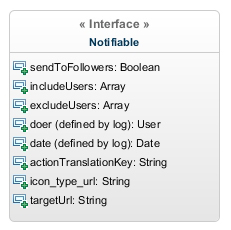
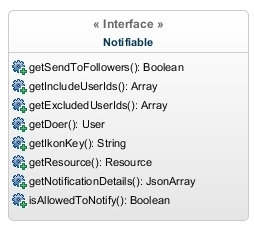
Changed notification rendering

Changed region(s): [[0.0303, 0.0307, 1.0, 0.9825], [0.3636, 0.1535, 0.6061, 0.2149], [0.3333, 0.0614, 0.6667, 0.1228]]

diff --git a/Resources/public/css/dropdown.css b/Resources/public/css/dropdown.css
@@ -1,7 +1,8 @@
-#top_bar div.notifications-dropdown-list {margin: 0; padding: 0; left: -196px; right: auto; min-width: 340px;}
+#top_bar div.notifications-dropdown-list {margin: 0; padding: 0; }
 .notifications-dropdown-list .list-group { border-radius: 0; margin-bottom: 0; border-top: 1px solid #ddd;}
 .notifications-dropdown-list li.list-group-item {border-radius: 0;border: 0;border-bottom: 1px solid #ddd; margin-bottom: 0px; font-size:12px; padding: 2px;}
 .notifications-dropdown-list li.list-group-item a,  .notifications-dropdown-list li.list-group-item a:hover{color: #428BCA !important; padding-left: 0px !important; }
+
 .notifications-dropdown-list .notification-widget-date { color: #999999; font-size: 85%; }
 .notifications-dropdown-list .not-viewed-notification, .notification-widget li.list-group-item:hover { background-color: rgba(86,61,124,.15); }
 .notifications-dropdown-list div.see-notifications-button, .notification-widget li.see-notifications-button:hover { color: #fff; background-color: #428BCA; border-color: #428BCA; border-bottom-left-radius: 4px;
@@ -20,8 +21,13 @@
     right: 33%;
 }
 
-.notifications-dropdown-list .dropdown-notification-avatar {float: left; width: 11%; margin-right: 2%;}
+.notifications-dropdown-list .dropdown-notification-avatar {float: left; width: 11%; margin-right: 2%; max-width: 40px;}
 .notifications-dropdown-list .dropdown-notification-text {float: left; width: 85%;}
 .notifications-dropdown-list li.list-group-item span.notification-icon {width:16px; text-align: center; color: #fff; text-transform: uppercase; font-size: 11px; line-height: 16px; display: inline-block;}
 .notifications-dropdown-list li.list-group-item span.notification-icon.default-notification-icon {background-color: #dadedf; color: #686E72;}
 .notifications-dropdown-list div.zero-notifications-found {text-align: center; padding: 5px;}
+
+@media (min-width: 990px) {
+    #top_bar div.notifications-dropdown-list {left: -196px; right: auto; min-width: 340px;}
+    div.notifications-dropdown-list ul#notification-list {max-height: 170px; overflow: auto;}
+}

diff --git a/Service/Manager.php b/Service/Manager.php
@@ -109,7 +109,11 @@ class Manager
         $notification = new Notification();
         $notification->setActionKey($notifiable->getActionKey());
         $notification->setIconKey($notifiable->getIconKey());
-        $notification->setResourceId($notifiable->getResourceId());
+        $resourceId = null;
+        if ($notifiable->getResource() !== null) {
+            $resourceId = $notifiable->getResource()->getId();
+        }
+        $notification->setResourceId($resourceId);
         $details = $notifiable->getNotificationDetails();
         $doer = $notifiable->getDoer();
         $doerId = null;
@@ -147,10 +151,10 @@ class Manager
     public function notifyUsers (Notification $notification, NotifiableInterface $notifiable)
     {
         $userIds = array();
-        if ($notifiable->getSendToFollowers()) {
+        if ($notifiable->getSendToFollowers() && $notifiable->getResource() !== null) {
             $userIds = $this->getFollowersByResourceIdAndClass(
-                $notifiable->getResourceId(),
-                $notifiable->getResourceClass()
+                $notifiable->getResource()->getId(),
+                $notifiable->getResource()->getClass()
             );
         }
 
@@ -201,17 +205,6 @@ class Manager
         $this->notifyUsers($notification, $notifiable);
 
         return $notification;
-    }
-
-    /**
-     * Retrieves the notifications for a user
-     *
-     * @param $userId
-     * @return query
-     */
-    public function getUserNotificationsQuery($userId)
-    {
-        return $this->getNotificationViewerRepository()->findUserNotificationsQuery($userId);
     }
 
     /**
@@ -274,17 +267,6 @@ class Manager
 
     /**
      * @param $userId
-     * @param $max
-     *
-     * @return mixed
-     */
-    public function getUserLatestNotifications($userId, $max)
-    {
-        return $this->getNotificationViewerRepository()->findUserLatestNotifications($userId, $max);
-    }
-
-    /**
-     * @param $userId
      * @param $resourceId
      */
     public function getFollowerResource($userId, $resourceId, $resourceClass)
@@ -335,24 +317,6 @@ class Manager
         }
 
         return $followerResource;
-    }
-
-    /**
-     * @param $objectIds
-     * @param $objectClass
-     * @return array
-     */
-    public function getObjectsByClassAndIds ($objectIds, $objectClass)
-    {
-        $objectIds = array_unique($objectIds);
-        $objects = $this->getEntityManager()->getRepository($objectClass)->findBy(array('id'=>$objectIds));
-
-        $objectsHash = array();
-        foreach ($objects as $object) {
-            $objectsHash[$object->getId()] = $object;
-        }
-
-        return $objectsHash;
     }
 
     /**

diff --git a/DependencyInjection/IcapNotificationExtension.php b/DependencyInjection/IcapNotificationExtension.php
@@ -26,7 +26,7 @@ class IcapNotificationExtension extends Extension
         $configuration = new Configuration();
         $config = $this->processConfiguration($configuration, $configs);
 
-        foreach (array('user_class', 'resource_class', 'default_layout', 'max_per_page', 'dropdown_items', 'system_name') as $attribute) {
+        foreach (array('default_layout', 'max_per_page', 'dropdown_items', 'system_name') as $attribute) {
             $container->setParameter("icap_notification.".$attribute, $config[$attribute]);
         }
 

diff --git a/DependencyInjection/Configuration.php b/DependencyInjection/Configuration.php
@@ -18,8 +18,6 @@ class Configuration implements ConfigurationInterface
 
         $rootNode
             ->children()
-                ->scalarNode('user_class')->isRequired()->end()
-                ->scalarNode('resource_class')->isRequired()->end()
                 ->scalarNode('default_layout')->isRequired()->end()
                 ->integerNode('max_per_page')->defaultValue(50)->end()
                 ->integerNode('dropdown_items')->defaultValue(10)->end()

diff --git a/Entity/NotifiableInterface.php b/Entity/NotifiableInterface.php
@@ -47,18 +47,11 @@ interface NotifiableInterface
     public function getIconKey();
 
     /**
-     * Get resourceId
+     * Get resource Object
      *
-     * @return integer
+     * @return resource
      */
-    public function getResourceId();
-
-    /**
-     * Get resource class
-     *
-     * @return string
-     */
-    public function getResourceClass();
+    public function getResource();
 
     /**
      * Get details
